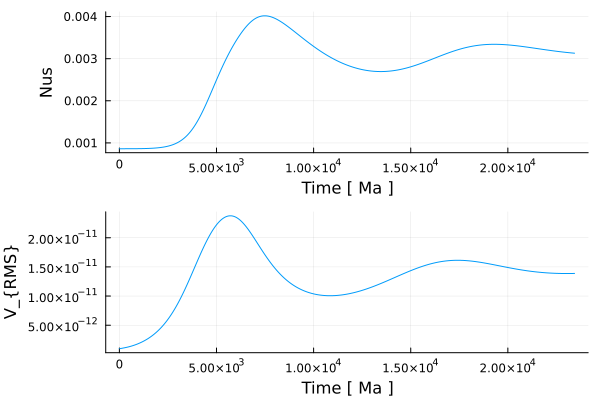
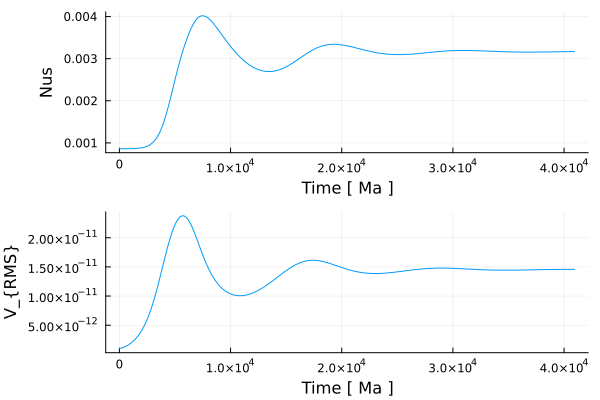
Finalize Exercise 11 in English

diff --git a/docs/src/man/GESolution.md b/docs/src/man/GESolution.md
@@ -7,7 +7,7 @@ The governing equations for solving geodynamical problems—neglecting adiabatic
 **Momentum**
 
 $\begin{equation}
-\rho \left(\frac{\partial{v_{i}}}{\partial{t}} + v_{j}\frac{\partial{v_{i}}}{\partial{x_{j}}}\right) = -\frac{\partial{P}}{\partial{x_{i}}} + \frac{\tau_{ij}}{\partial{x_j}} + \rho g_{i},
+\rho \left(\frac{\partial{v_{i}}}{\partial{t}} + v_{j}\frac{\partial{v_{i}}}{\partial{x_{j}}}\right) = -\frac{\partial{P_t}}{\partial{x_{i}}} + \frac{\partial{\tau_{ij}}}{\partial{x_j}} + \rho g_{i},
 \end{equation}$
 
 where 
@@ -16,7 +16,7 @@ $v_i$ is the velocity in the $i$-th direction [m/s],
 $t$ is time [s],
 $\partial/\partial{t}$ is the time derivative, 
 $\partial/\partial x_i$ is a directional derivative in $i$, 
-$P$ the total pressure [Pa], 
+$P_t$ is the total pressure [Pa], 
 $\tau_{ij}$ is the deviatoric stress tensor [Pa], and 
 $\boldsymbol{g}$ is the gravitational acceleration vector [m/s²]. 
 
@@ -121,16 +121,16 @@ The equations discussed here are used to solve for pressure and velocity in two-
 The constitutive equations of rheology delineate a relationship between the second-order tensor for the kinematics $\left(\text{Strain rate: }\dot{\varepsilon}, \text{Strain: } \varepsilon \right)$ and the dynamics $\left(\text{Forces}, \text{Stresses: }\sigma\right)$. Several constitutive models are commonly employed (e.g., viscous, elastic, viscoelastic, plastic). In `GeoModBox.jl`, the focus is on incompressible, viscous rheology, described by: 
 
 $\begin{equation}
-\tau_{i,j} = 2\eta \cdot \dot{\varepsilon}_{i,j},
+\tau_{ij} = 2\eta \cdot \dot{\varepsilon}_{ij},
 \end{equation}$
 
-where $\eta$ is the dynamic viscosity [Pa·s] and $\tau_{i,j}$ is the deviatoric stress tensor [Pa] defined as 
+where $\eta$ is the dynamic viscosity [Pa·s] and $\tau_{ij}$ is the deviatoric stress tensor [Pa] defined as 
 
 $\begin{equation}
-\tau_{i,j} = \sigma_{i,j} + P\delta{i,j},
+\tau_{ij} = \sigma_{ij} + P\delta{}_{ij},
 \end{equation}$
 
-where $\sigma_{i,j}$ is the full stress tensor [Pa], $P$ is the pressure [Pa], and $\delta$ is the *Kronecker Delta*. 
+where $\sigma_{ij}$ is the full stress tensor [Pa], $P$ is the pressure [Pa], and $\delta$ is the *Kronecker Delta*. 
 
 ## Approximations 
 
@@ -152,7 +152,7 @@ $\begin{equation}
 P_t = P_{\text{dyn}} + P_{\text{hydr}},
 \end{equation}$
 
-where $P_{\text{dyn}}$ and $P_{\text{hydr}}$ denote the dynamic and hydrostatic pressure, respectively, along with the gradient of hydrostatic pressure,
+where $P_{\text{dyn}}$ and $P_{\text{hydr}}$ denote the dynamic and hydrostatic pressure [Pa], respectively, along with the gradient of hydrostatic pressure,
 
 $\begin{equation}
 \frac{\partial{P_{\text{hydr}}}}{\partial{y}}=\rho_0 g,
@@ -277,7 +277,7 @@ $\begin{equation}
 **Continuity equation**
 
 $\begin{equation}
-\frac{\partial{v'_x}}{\partial{x}} + \frac{\partial{v'_y}}{\partial{y'}} = 0.
+\frac{\partial{v'_x}}{\partial{x'}} + \frac{\partial{v'_y}}{\partial{y'}} = 0.
 \end{equation}$
 
 When interpreting or analyzing non-dimensional models, it is essential to keep track of the scaling constants and reference values used in the transformation.

diff --git a/docs/src/man/Exercises.md b/docs/src/man/Exercises.md
@@ -38,5 +38,11 @@ All exercises were performed on a single CPU: *AMD Ryzen 7 7735U with Radeon Gra
 | 8               | 1-D Stokes Equation                 | 8.489 (0.212) |
 | 9               | 2-D Falling Block (steady state)    | 20.764 (0.891) | 
 | 10              | 2-D Falling Block (time-dep.)       | 1) Upwind: 33.295 (3.68) <br/> 2) SLF: 32.333 (3.629) <br/> 3) SL: 37.537 (3.755) <br/> 4) Tracers: 36.291 (6.12) |
+| 11<sup>1</sup> | Thermal Convection (dim)            | **Ra = 1e4** (Diff+Adv+Momentum) <br/> 1) Explicit+upwind+direct: 262.912 (1703) <br/> 2) Implicit+upwind+direct: 283.031 (1709) <br/> 3) CNA+upwind+direct: 284.944 (1708) <br/> 4) ADI+upwind+direct: 645.181 (1708) <br/> 5) DC+upwind+direct: 294.1 (1710) <br/> 6) Explicit+SLF+direct: 354.35 (2341) <br/> 7) Implicit+SLF+direct: 382.307 (2345) <br/> 8) CNA+SLF+direct: 386.764 (2344) <br/> 9) ADI+SLF+direct: 892.411 (2344) <br/> 10) DC+SLF+direct: 492.168 (2346) <br/> 11) Explicit+semilag+direct: 334.941 (1743) <br/> 12) Implicit+semilag+direct: 367.501 (1746) <br/> 13) CNA+semilag+direct: 371.289 (1744) <br/> 14) ADI+semilag+direct: 704.852 (1744) <br/> 15) DC+semilag+direct: 390.767 (1749) <br/> 16) Explicit+upwind+DC: 371.091 (1703) <br/> 17) Implicit+upwind+DC: 358.323 (1709) <br/> 18) CNA+upwind+DC: 338.862 (1708) <br/> 19) ADI+upwind+DC: 654.069 (1708) <br/> 20) DC+upwind+DC: 316.456 (1710) <br/> 21) Explicit+SLF+DC: 394.471 (2341) <br/> 22) Implicit+SLF+DC: 417.712 (2345) <br/> 23) CNA+SLF+DC: 412.717 (2344) <br/> 24) ADI+slf+DC: 890.714 (2344) <br/> 25) DC+SLF+DC: 403.217 (2346) <br/> 26) Explicit+semilag+DC: 286.046 (1743) <br/> 27) Implicit+semilag+DC: 295.961 (1746) <br/> 28) CNA+semilag+DC: 288.067 (1744) <br/> 29) ADI+semilag+DC: 671.159 (1744) <br/> 30) DC+semilag+DC: 357.894 (1749) <br/> <br/> **Ra = 1e5** (Diff+Adv+Momentum) <br/> 1) Explicit+semilag+dc: 489.869 (2433) <br/> 2) CNA+semilag+dc: 515.539 (2448) <br/> 3) CNA+upwind+dc: 1327.856 (8000) <br/><br/> **Ra = 1e6** (Diff+Adv+Momentum) <br/> 4) Explicit+semilag+dc: 1280.077 (8000) <br/> 5) CNA+semilag+dc: 1324.29 (8000) <br/> 6) CNA+upwind+dc: 1272.997 (8000)  |
+| 12            | 
+
+---
+
+<sup>1</sup>: For the thermal convection, only the runtime where compilation and allocation overhead is avoided are shown, for the sake of simplicity. The number of iterations is shown in the parentheses. For the higher $Ra$ number models only the fastest and most accurate (see [here](../man/examples/GaussianDiffusion2D.md)) combinations of solvers from the low $Ra$ case haven been run. 
 
 

diff --git a/docs/src/man/exercises/11_2D_Thermal_Convection.md b/docs/src/man/exercises/11_2D_Thermal_Convection.md
@@ -6,7 +6,7 @@ This exercise introduces **2-D thermal convection** as an application of the thr
 2. Conservation of momentum, and  
 3. Conservation of mass.  
 
-We focus on the **isoviscous, bottom-heated case**, which serves as the simplest form of mantle convection. The problem demonstrates the interplay between **advection** and **diffusion** in heat transport, while density variations due to thermal expansion drive convective flow.  
+We focus on the **isoviscous, bottom-heated setup**, which serves as the simplest form of mantle convection. The problem demonstrates the interplay between **advection** and **diffusion** in heat transport, while density variations due to thermal expansion drive convective flow.  
 
 The main objectives are:  
 
@@ -21,4 +21,14 @@ The main objectives are:
 
 The results illustrate how increasing the Rayleigh number strengthens convection, changes the scale of plumes and slabs, and increases the overall vigor of the flow.  
 
+![Exercise11a](../../assets/11_ThermalConvection_1.0e6_150_50_lineara_semilag_CNA_dc.gif)
 
+**Figure 1.** Isoviscous, bottom-heated thermal convection for $Ra = 10^6$ with a resolution of 150x50. The initial condition is a linearly increasing temperature profile with an elliptical anomaly at the top. Thermal boundary conditions are fixed temperature at the top and bottom and zero heat flux at the sides. All velocity boundary conditions are free slip. Heat diffusion is solved using the Crank–Nicolson method, the Stokes equation using the defect correction method, and temperature advection with the semi-Lagrangian method. Models run until a steady state is reached or up to a maximum of 8000 iterations.  
+
+![Exercise11b](../../assets/11_ThermalConvectionTimeSeries1.0e6_150_50_lineara_semilag_CNA_dc.png)
+
+**Figure 2.** Time series of the surface Nusselt number and the root mean square velocity. For details on how these diagnostics are calculated, see the [exercise](https://github.com/GeoSci-FFM/GeoModBox.jl/blob/main/exercises/11_2D_Thermal_Convection_en.ipynb).  
+
+![Exercise11c](../../assets/11_ThermalConvection_iterations_1.0e6_150_50_lineara_semilag_CNA_dc.png)
+
+**Figure 3.** Variation in the root mean square velocity with numerical iterations. Empirically, a tolerance of $10^{-15}$ was chosen to define steady state. Low-$Ra$ cases typically reach steady state in fewer than 3000 iterations.  
